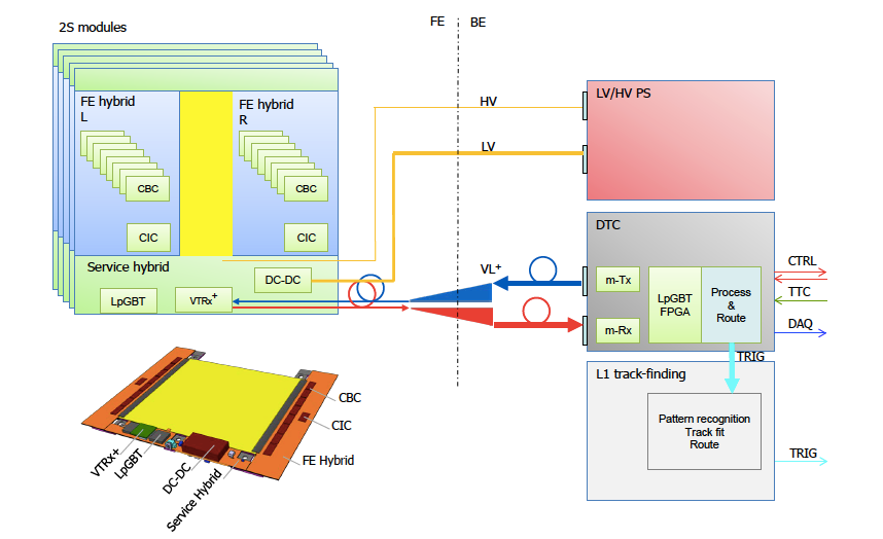
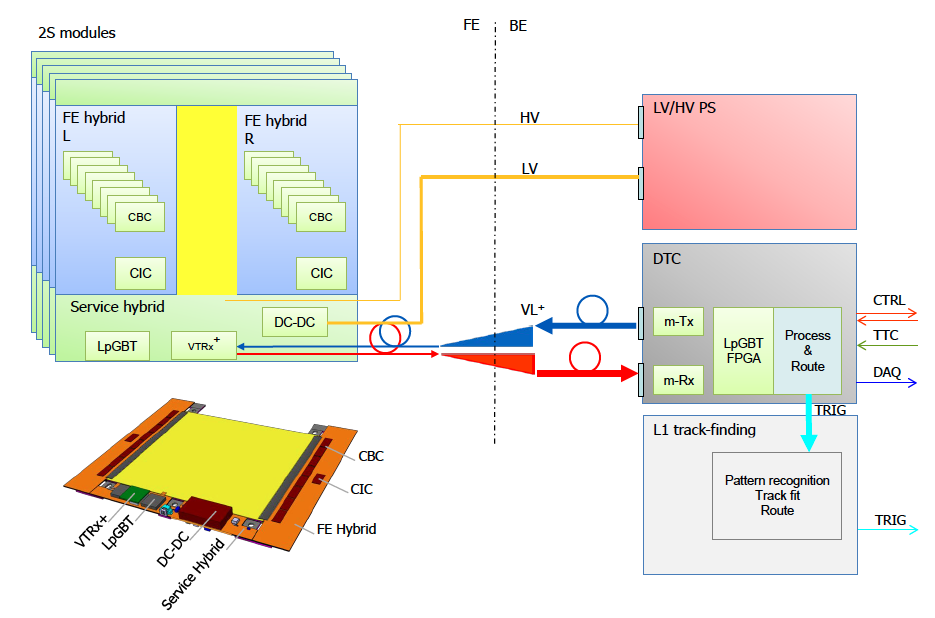
OT layout + DAQ

diff --git a/tex/Part2/Outer_Tracker_Lumi.tex b/tex/Part2/Outer_Tracker_Lumi.tex
@@ -1,44 +1,56 @@
 \chapter{Outer Tracker Luminometer}
 
-The CMS Phase II Outer Tracker system will provide a source of high rate physics objects: L1 track stubs,
-due to its designed architecture which sends these objects to the L1 track reconstruction system at full 40 MHz frequency~\cite{CERN-LHCC-2017-009}.
+The CMS Phase II Outer Tracker  (OT) system will provide a source of high rate physics objects: L1 track stubs.
+In its designed architecture these objects are sent to the L1 track reconstruction system at full 40 MHz frequency~\cite{CERN-LHCC-2017-009}.
 Studies of CMS Phase II simulations show excellent linearity in the counting of these objects up to pile-up of 200.
-Both of these properties make this an excellent candidate for a precision luminometer.
-In the following sections, the detector layout, a preliminary design of the data acquisition system, and expected perfomace are described.
+These properties make this an excellent candidate for a precision luminometer.
+In the following sections the detector layout, a preliminary design of the data acquisition system, and the expected perfomace are described.
 
 
-\section{Detector Layout }
-- Description of the Outer Tracker layout (Layer 6)\\
+\section{Detector Layout and track stub reconstruction}
 
-- track stub objects
+The design of the Phase II OT is described in Chapter 3 of The Phase-2 Upgrade of the CMS Tracker TDR ~\cite{CERN-LHCC-2017-009} and shown below in Figure~\ref{fig:OT_layout}.
+The layout consists of 6 barrel layers (3 TBPS + 3 TB2S) and 5 endcap (TEDD) disks.
+The design of the CMS Phase II L1 trigger system requires the reconstruction of track stubs in the front-end of the OT in order to aid the track reconstruction for the L1 trigger.
+For the luminosity measurement, CMS detector simulations have been studied up to the Phase II expected pile-up,
+these studies described below show that the best precision can be obtained with the track stub counting from the barrel layer 6. 
+The OT barrel layer 6 consists of 78 ladders on each side of the detector, with each ladder containing 12 sensor modules as shown in Figure~\ref{fig:OT_ladder_stub}.
+The track stub reconstruction (right side of Figure ~\ref{fig:OT_ladder_stub}) is performed with firmware algorithms in the front-end electronics and transmitted to the back-end for all LHC bunch crossings.
 
-\section{Track Stub Counting and Data Acquisition}
-- OT backend \\ 
-- track stub histogramming \\
-- data transfer 
+
+\section{Data Acquisition}
+
+A design of the OT DAQ including both the front-end and back-end systems is shown in Figure~\ref{fig:OT_DAQ}.
+The back-end consists of Data, Trigger, and Control (DTC) boards which process the Trigger (TRIG) stream containting the track stub information. 
+The list of track stubs reconstructed for each bunch crossing is transmitted in blocks of 8 bunch crossings to the DTC boards.
+For the luminosity measurement, a specialized {\it BRIL Histogramming} firmware module has been developed which will count the number of track stubs in each bunch crossing and produce a histogram per orbit (3654 bunch crossings) at regular integration intervals of 1 second.
+
+Each luminosity histogram will be configured to integrate track stubs from one 12 module ladder, the DTC boards process 3-6 ladders.
+The number of necessary instances of  {\it BRIL Histogramming} modules will be installed in the DTC boards and readout via IPBus network protocol to the BRIL-DAQ system for further processing and storage.
+Considering the rate of track stubs per ladder estimated with CMS simulations at pile-up of 200  (Figure~\ref{fig:OT_rates}),  the necessary memory per luminosity histogram is estimated using 32-bit memory words as follows: 3564 stub counting words (bins/orbit) + 9 words header + 2 words module mask + 192 error words (12 modules * 8 errors * 2 words/error) for a total of 3767 words per histogram.
+In the case of 6 ladders per DTC this corresponds to a data readout rate of ~496 kbps.
+For the total of 156 OT histograms, the total data rate received by the BRIL-DAQ is approximately 18.8 Mbps.
+
+
 
 \section{Expected Performance}
 - Rates\\
 - linearity \\
 - statistical precision
 
+
+
 \clearpage
 
 \begin{figure}[hbtp]
 \centering
 \begin{subfigure}
-  \centering
-  \includegraphics[width=.9\linewidth]{tex/Part2/fig/OT/OT-longitudinal.png}
-\end{subfigure}
-\begin{subfigure}
-  \centering
-  \includegraphics[width=.9\linewidth]{tex/Part2/fig/OT/OT-transverse.png}
+\centering
+\includegraphics[width=.9\linewidth]{tex/Part2/fig/OT/OT-longitudinal.png}
 \end{subfigure}
 \caption{
-  Layout of the CMS Phase II Outer Tracker.
-  Top figure shows a longitudinal view with two regions in the barrel (TB2S, TBPS) and the endcap region (TEDD).
-  Bottom figure shows a transverse view of the three TB2S layers (4, 5, and 6) and the layout of one ladder with 12 sensor modules.
-  Track stubs from the  TB2S layer 6, with 78 ladders, will be used for luminosity measurement.  
+  Longitudinal view of the CMS Phase II Outer Tracker layout  with two regions in the barrel (TB2S, TBPS) and the endcap region (TEDD).
+  For the luminosity measurement only the barrel outermost layer 6 in the TB2S part is used, this layer consists of 78 sensor ladders on each side of CMS.
 }
 \label{fig:OT_layout}
 \end{figure}
@@ -46,9 +58,26 @@ In the following sections, the detector layout, a preliminary design of the data
 
 \begin{figure}[hbtp]
 \centering
+\begin{subfigure}
+  \centering
+  \includegraphics[width=.48\linewidth]{tex/Part2/fig/OT/OT-ladder.png}
+\end{subfigure}
+\begin{subfigure}
+  \centering
+  \includegraphics[width=.48\linewidth]{tex/Part2/fig/OT/OT-stub.png}
+\end{subfigure}
+\caption{
+  Layout of one OT sensor ladder with 12 modules (left) and diagram of the track stub reconstruction (right) using the two sensor layers in each module.  
+}
+\label{fig:OT_ladder_stub}
+\end{figure}
+
+
+\begin{figure}[hbtp]
+\centering
 \includegraphics[width=.65\linewidth]{tex/Part2/fig/OT/OT-DAQoverview.png}
 \caption{
-  Design of the Phase II Outer Tracker frontend (FE) and backend (BE) electronics.   
+  Design of the Phase II Outer Tracker frontend (FE) and backend (BE) electronics~\cite{CERN-LHCC-2017-009}.  
 }   
 \label{fig:OT_DAQ}
 \end{figure}
@@ -58,7 +87,8 @@ In the following sections, the detector layout, a preliminary design of the data
 \centering
 \includegraphics[width=.6\linewidth]{tex/Part2/fig/OT/OT-Rates.pdf}
 \caption{
-  Average number of track stubs per event per ladder as a function of the ladder id. The rate is determined from the CMS Phase II simulation for a pile-up of 200.
+  Average number of track stubs per event per ladder as a function of the ladder id.
+  The rate is determined from the CMS Phase II simulation for a pile-up of 200.
 }
 \label{fig:OT_rates}
 \end{figure}
